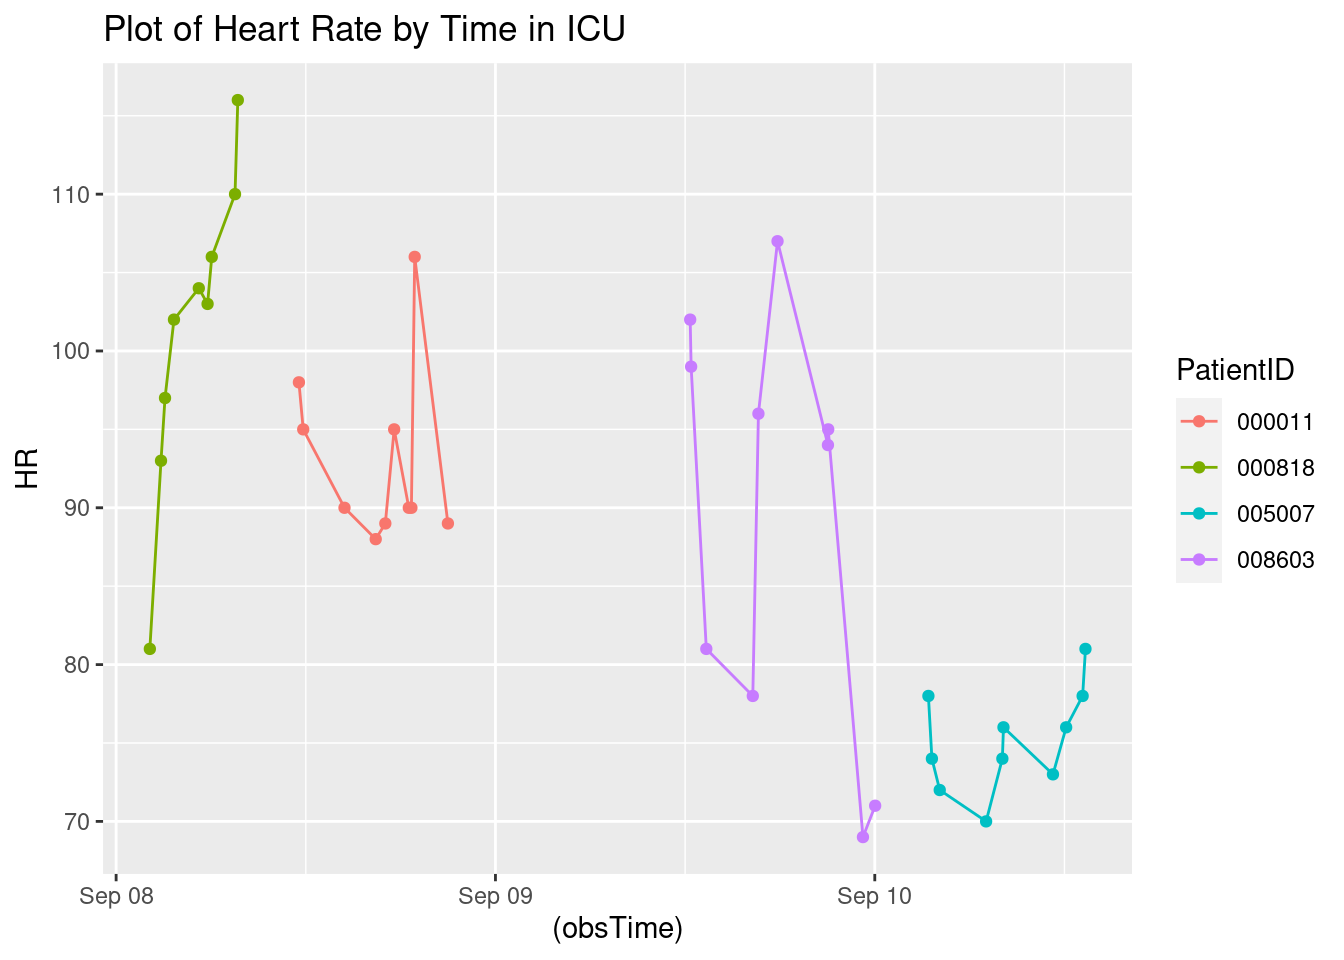
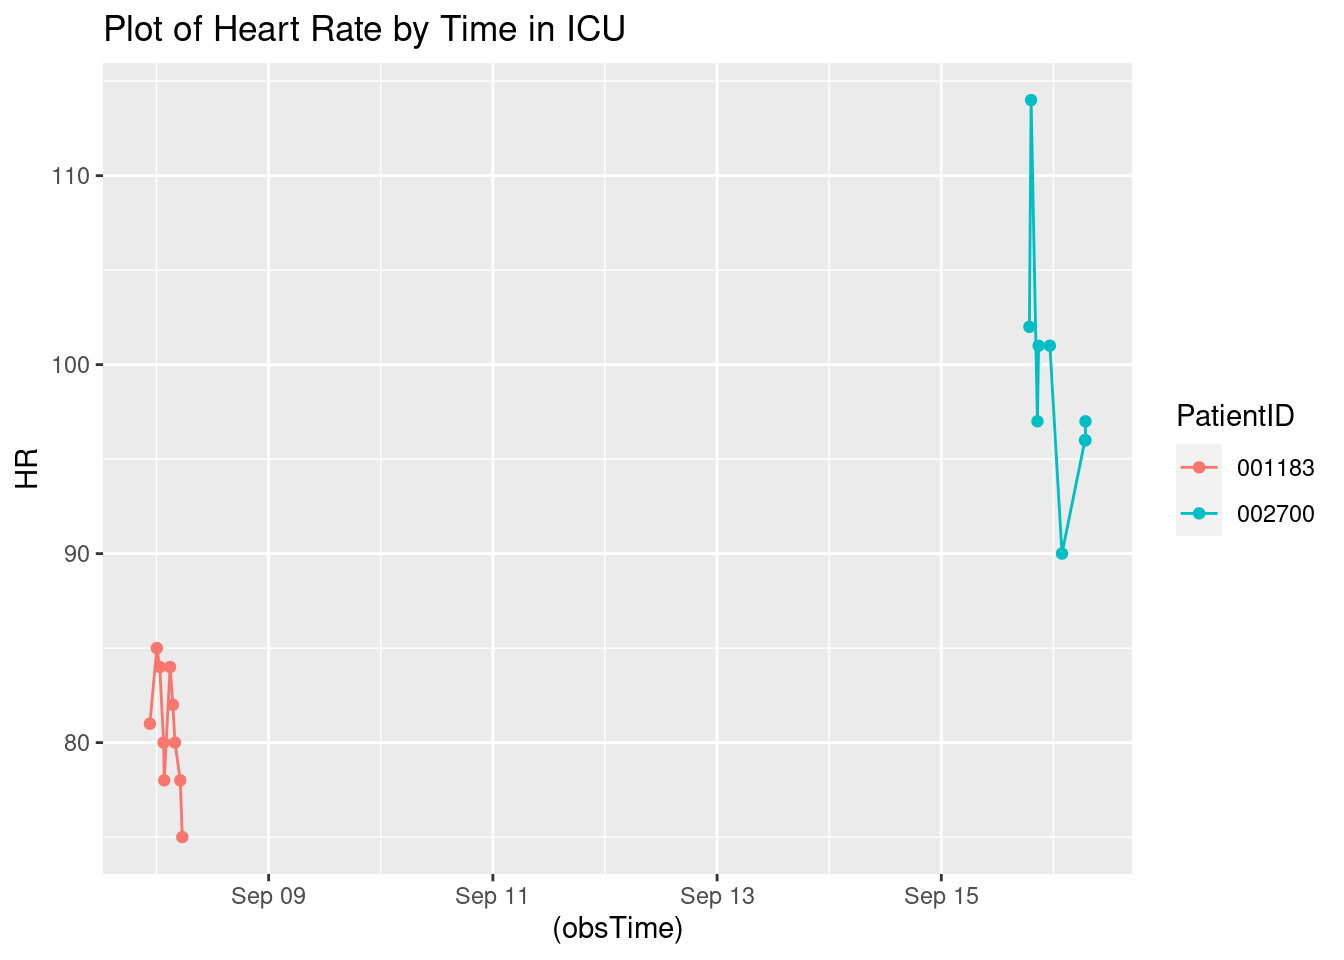
Updated report

diff --git a/A7.html b/A7.html
@@ -114,7 +114,7 @@ pre > code.sourceCode > span > a:first-child::before { text-decoration: underlin
 </div>
 <div class="sourceCode cell-code" id="cb4"><pre class="sourceCode r code-with-copy"><code class="sourceCode r"><span id="cb4-1"><a href="#cb4-1" aria-hidden="true" tabindex="-1"></a><span class="fu">toc</span>()</span></code><button title="Copy to Clipboard" class="code-copy-button"><i class="bi"></i></button></pre></div>
 <div class="cell-output cell-output-stdout">
-<pre><code>3.412 sec elapsed</code></pre>
+<pre><code>5.047 sec elapsed</code></pre>
 </div>
 <div class="sourceCode cell-code" id="cb6"><pre class="sourceCode r code-with-copy"><code class="sourceCode r"><span id="cb6-1"><a href="#cb6-1" aria-hidden="true" tabindex="-1"></a><span class="fu">tic</span>()</span>
 <span id="cb6-2"><a href="#cb6-2" aria-hidden="true" tabindex="-1"></a>test1<span class="ot">=</span><span class="fu">makeSepsisDataset</span>(<span class="at">n=</span><span class="dv">50</span>,<span class="at">read_fn =</span> <span class="st">"read_delim"</span>)</span>
@@ -124,7 +124,7 @@ pre > code.sourceCode > span > a:first-child::before { text-decoration: underlin
 </div>
 <div class="sourceCode cell-code" id="cb8"><pre class="sourceCode r code-with-copy"><code class="sourceCode r"><span id="cb8-1"><a href="#cb8-1" aria-hidden="true" tabindex="-1"></a><span class="fu">toc</span>()</span></code><button title="Copy to Clipboard" class="code-copy-button"><i class="bi"></i></button></pre></div>
 <div class="cell-output cell-output-stdout">
-<pre><code>15.156 sec elapsed</code></pre>
+<pre><code>18.876 sec elapsed</code></pre>
 </div>
 <div class="sourceCode cell-code" id="cb10"><pre class="sourceCode r code-with-copy"><code class="sourceCode r"><span id="cb10-1"><a href="#cb10-1" aria-hidden="true" tabindex="-1"></a><span class="co"># n=100</span></span>
 <span id="cb10-2"><a href="#cb10-2" aria-hidden="true" tabindex="-1"></a><span class="fu">tic</span>()</span>
@@ -135,7 +135,7 @@ pre > code.sourceCode > span > a:first-child::before { text-decoration: underlin
 </div>
 <div class="sourceCode cell-code" id="cb12"><pre class="sourceCode r code-with-copy"><code class="sourceCode r"><span id="cb12-1"><a href="#cb12-1" aria-hidden="true" tabindex="-1"></a><span class="fu">toc</span>()</span></code><button title="Copy to Clipboard" class="code-copy-button"><i class="bi"></i></button></pre></div>
 <div class="cell-output cell-output-stdout">
-<pre><code>5.759 sec elapsed</code></pre>
+<pre><code>8.775 sec elapsed</code></pre>
 </div>
 <div class="sourceCode cell-code" id="cb14"><pre class="sourceCode r code-with-copy"><code class="sourceCode r"><span id="cb14-1"><a href="#cb14-1" aria-hidden="true" tabindex="-1"></a><span class="fu">tic</span>()</span>
 <span id="cb14-2"><a href="#cb14-2" aria-hidden="true" tabindex="-1"></a>test1<span class="ot">=</span><span class="fu">makeSepsisDataset</span>(<span class="at">n=</span><span class="dv">100</span>,<span class="at">read_fn =</span> <span class="st">"read_delim"</span>)</span>
@@ -145,7 +145,7 @@ pre > code.sourceCode > span > a:first-child::before { text-decoration: underlin
 </div>
 <div class="sourceCode cell-code" id="cb16"><pre class="sourceCode r code-with-copy"><code class="sourceCode r"><span id="cb16-1"><a href="#cb16-1" aria-hidden="true" tabindex="-1"></a><span class="fu">toc</span>()</span></code><button title="Copy to Clipboard" class="code-copy-button"><i class="bi"></i></button></pre></div>
 <div class="cell-output cell-output-stdout">
-<pre><code>23.597 sec elapsed</code></pre>
+<pre><code>34.91 sec elapsed</code></pre>
 </div>
 <div class="sourceCode cell-code" id="cb18"><pre class="sourceCode r code-with-copy"><code class="sourceCode r"><span id="cb18-1"><a href="#cb18-1" aria-hidden="true" tabindex="-1"></a><span class="co"># n=500</span></span>
 <span id="cb18-2"><a href="#cb18-2" aria-hidden="true" tabindex="-1"></a><span class="fu">tic</span>()</span>
@@ -156,7 +156,7 @@ pre > code.sourceCode > span > a:first-child::before { text-decoration: underlin
 </div>
 <div class="sourceCode cell-code" id="cb20"><pre class="sourceCode r code-with-copy"><code class="sourceCode r"><span id="cb20-1"><a href="#cb20-1" aria-hidden="true" tabindex="-1"></a><span class="fu">toc</span>()</span></code><button title="Copy to Clipboard" class="code-copy-button"><i class="bi"></i></button></pre></div>
 <div class="cell-output cell-output-stdout">
-<pre><code>29.373 sec elapsed</code></pre>
+<pre><code>43.752 sec elapsed</code></pre>
 </div>
 <div class="sourceCode cell-code" id="cb22"><pre class="sourceCode r code-with-copy"><code class="sourceCode r"><span id="cb22-1"><a href="#cb22-1" aria-hidden="true" tabindex="-1"></a><span class="fu">tic</span>()</span>
 <span id="cb22-2"><a href="#cb22-2" aria-hidden="true" tabindex="-1"></a>test1<span class="ot">=</span><span class="fu">makeSepsisDataset</span>(<span class="at">n=</span><span class="dv">500</span>,<span class="at">read_fn =</span> <span class="st">"read_delim"</span>)</span>
@@ -166,7 +166,7 @@ pre > code.sourceCode > span > a:first-child::before { text-decoration: underlin
 </div>
 <div class="sourceCode cell-code" id="cb24"><pre class="sourceCode r code-with-copy"><code class="sourceCode r"><span id="cb24-1"><a href="#cb24-1" aria-hidden="true" tabindex="-1"></a><span class="fu">toc</span>()</span></code><button title="Copy to Clipboard" class="code-copy-button"><i class="bi"></i></button></pre></div>
 <div class="cell-output cell-output-stdout">
-<pre><code>114.481 sec elapsed</code></pre>
+<pre><code>174.858 sec elapsed</code></pre>
 </div>
 </div>
 <p><strong>Task 3</strong></p>
@@ -192,7 +192,7 @@ pre > code.sourceCode > span > a:first-child::before { text-decoration: underlin
 <span id="cb28-4"><a href="#cb28-4" aria-hidden="true" tabindex="-1"></a></span>
 <span id="cb28-5"><a href="#cb28-5" aria-hidden="true" tabindex="-1"></a><span class="fu">Sys.time</span>()</span></code><button title="Copy to Clipboard" class="code-copy-button"><i class="bi"></i></button></pre></div>
 <div class="cell-output cell-output-stdout">
-<pre><code>[1] "2023-09-07 13:23:21 UTC"</code></pre>
+<pre><code>[1] "2023-09-07 14:25:45 UTC"</code></pre>
 </div>
 <div class="sourceCode cell-code" id="cb30"><pre class="sourceCode r code-with-copy"><code class="sourceCode r"><span id="cb30-1"><a href="#cb30-1" aria-hidden="true" tabindex="-1"></a>dfnew <span class="ot">&lt;-</span> df <span class="sc">%&gt;%</span></span>
 <span id="cb30-2"><a href="#cb30-2" aria-hidden="true" tabindex="-1"></a>  <span class="fu">subset</span>(SepsisLabel<span class="sc">==</span><span class="dv">1</span>)</span>
@@ -221,40 +221,22 @@ pre > code.sourceCode > span > a:first-child::before { text-decoration: underlin
 </thead>
 <tbody>
 <tr class="odd">
-<td style="text-align: left;">000011</td>
-<td style="text-align: right;">33</td>
-<td style="text-align: right;">89</td>
+<td style="text-align: left;">001183</td>
+<td style="text-align: right;">16</td>
+<td style="text-align: right;">75</td>
 <td style="text-align: right;">NA</td>
-<td style="text-align: right;">17</td>
+<td style="text-align: right;">16</td>
 <td style="text-align: right;">1</td>
-<td style="text-align: left;">2023-09-08 20:59:30</td>
+<td style="text-align: left;">2023-09-08 05:30:52</td>
 </tr>
 <tr class="even">
-<td style="text-align: left;">000818</td>
-<td style="text-align: right;">20</td>
-<td style="text-align: right;">116</td>
-<td style="text-align: right;">NA</td>
-<td style="text-align: right;">24</td>
+<td style="text-align: left;">002700</td>
+<td style="text-align: right;">210</td>
+<td style="text-align: right;">97</td>
+<td style="text-align: right;">35.6</td>
+<td style="text-align: right;">25</td>
 <td style="text-align: right;">1</td>
-<td style="text-align: left;">2023-09-08 07:41:57</td>
-</tr>
-<tr class="odd">
-<td style="text-align: left;">005007</td>
-<td style="text-align: right;">72</td>
-<td style="text-align: right;">81</td>
-<td style="text-align: right;">NA</td>
-<td style="text-align: right;">23</td>
-<td style="text-align: right;">1</td>
-<td style="text-align: left;">2023-09-10 13:19:48</td>
-</tr>
-<tr class="even">
-<td style="text-align: left;">008603</td>
-<td style="text-align: right;">59</td>
-<td style="text-align: right;">71</td>
-<td style="text-align: right;">38</td>
-<td style="text-align: right;">24</td>
-<td style="text-align: right;">1</td>
-<td style="text-align: left;">2023-09-10 00:01:25</td>
+<td style="text-align: left;">2023-09-16 06:51:28</td>
 </tr>
 </tbody>
 </table>
